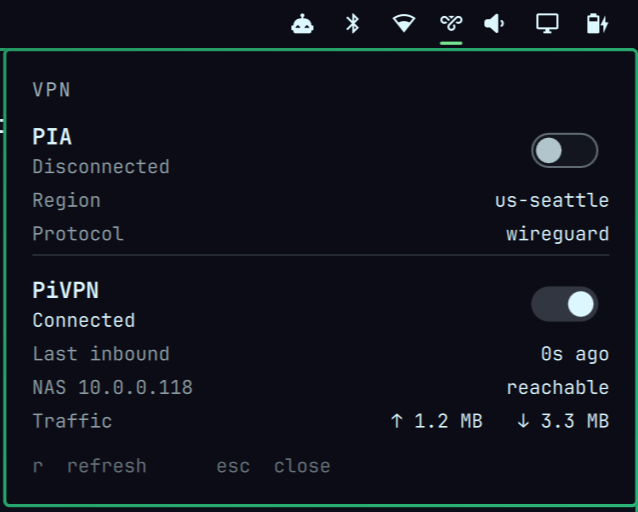
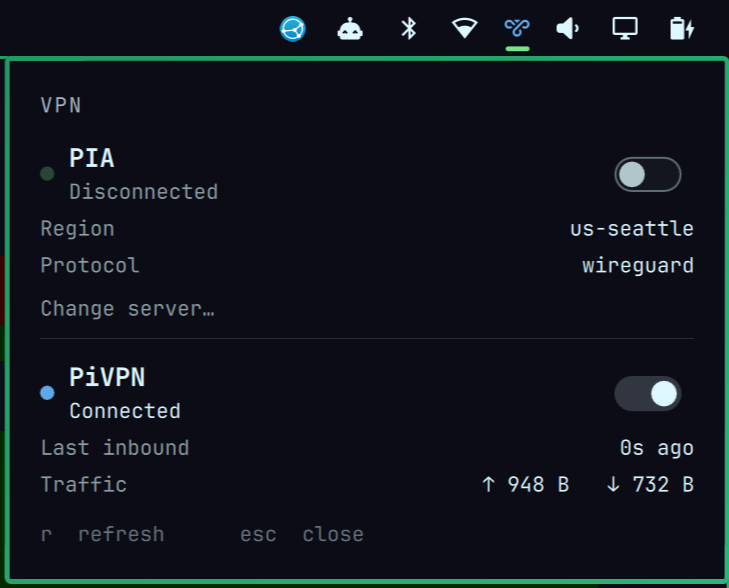
Refresh the preview images and tighten the privacy section
New screenshots for the current panel: one with a tunnel up, one idle.
Trims the privacy notes to what a user needs to decide whether to trust it.

diff --git a/README.md b/README.md
@@ -2,7 +2,9 @@
 
 A VPN widget for the Omarchy Quattro bar. One icon, one panel, all your tunnels.
 
-![The VPN panel](preview.png)
+![The VPN panel with a tunnel up](preview.png)
+
+![The VPN panel with everything off](preview-idle.png)
 
 I run a homelab behind a WireGuard tunnel and PIA for everything else, and I got
 tired of squinting at two separate indicators that both lied to me. So: one icon.
@@ -329,22 +331,17 @@ the two VPNs I actually pay for.
 
 ## Privacy
 
-Address and traffic rows stay hidden while a tunnel is down. With the VPN off,
-"Public IP" is your real address, and there's no reason to paint that on your
-screen where it'll land in the first screenshot you post. Ask me how I know.
+Address and traffic rows stay hidden while a tunnel is down. There's no reason
+to paint your address on your screen, where it lands in the first screenshot
+you post.
 
-Hiding it while disconnected turns out not to be enough, though. On my box
-`piactl get pubip` reports the underlying connection's address the *whole time*
-PIA is connected — I watched it sit on my real IP for well over a minute of
-solid "Connected". Anything keyed on connection state alone would have happily
-displayed it, and did: it's how my own preview screenshot ended up with my home
-IP in it. Twice.
-
-So the rule is stronger now. Any address seen while not connected is
-remembered, and will never be shown as an exit IP afterwards. If your VPN
-client is honest about the exit address you'll see it; if it's reporting the
-address the tunnel is supposed to be hiding, you get no row at all. Being
-wrong in that direction is free.
+Connection state alone isn't a safe gate for that, though. Some clients keep
+reporting the underlying connection's address well after they say they're
+connected — `piactl get pubip` is one of them. So the rule here is stricter:
+any address seen while **not** connected is remembered, and is never shown as
+an exit IP afterwards. A client that honestly reports its exit gets a row; one
+that's still reporting the address the tunnel is meant to hide gets no row at
+all. Erring toward the blank row costs nothing.
 
 The plugin makes no network calls of its own. It shells out to `systemctl`,
 `wg`, `piactl` and `ping`, and reads local files. That's the entire attack
